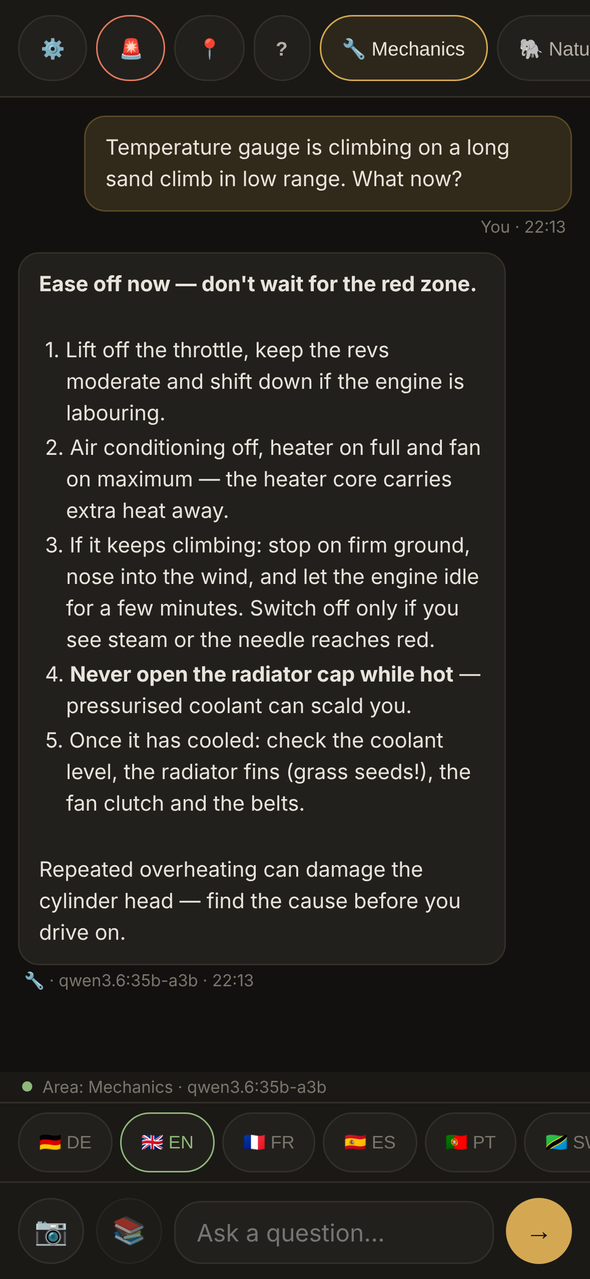
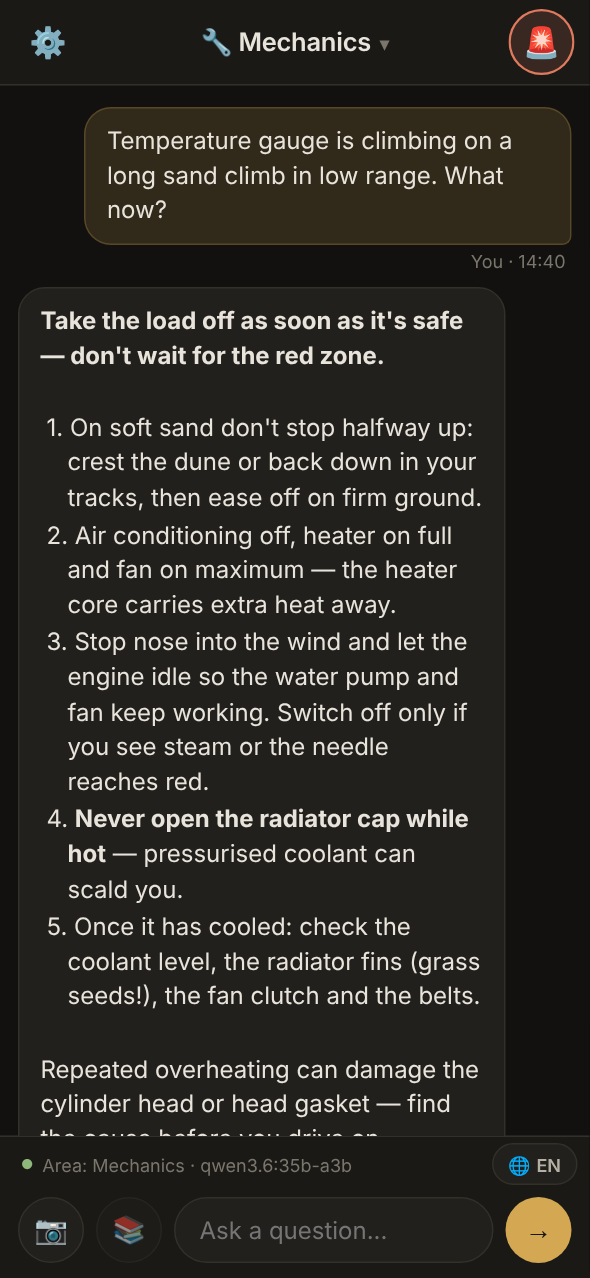
Website: updated text and screenshots, keep the 30-second video, corrected trailer answer

diff --git a/docs/index.html b/docs/index.html
@@ -244,21 +244,18 @@ footer p{margin:0 0 .6em;max-width:72ch}
         <div class="row">
           <figure>
             <div class="frame"><picture>
-              <source media="(prefers-color-scheme: light)" srcset="img/en/chat-light.png">
               <img src="img/en/chat-dark.png" width="250" alt="Screenshot of a chat with one of Safari Assistant’s modules" loading="lazy" decoding="async">
             </picture></div>
             <figcaption>Chat</figcaption>
           </figure>
           <figure>
             <div class="frame"><picture>
-              <source media="(prefers-color-scheme: light)" srcset="img/en/map-light.png">
               <img src="img/en/map-dark.png" width="250" alt="Screenshot of Safari Assistant’s offline map" loading="lazy" decoding="async">
             </picture></div>
             <figcaption>Map</figcaption>
           </figure>
           <figure>
             <div class="frame"><picture>
-              <source media="(prefers-color-scheme: light)" srcset="img/en/emergency-light.png">
               <img src="img/en/emergency-dark.png" width="250" alt="Screenshot of Safari Assistant’s emergency view" loading="lazy" decoding="async">
             </picture></div>
             <figcaption>Emergency</figcaption>
@@ -272,7 +269,8 @@ footer p{margin:0 0 .6em;max-width:72ch}
   <section id="what" aria-labelledby="what-title">
     <div class="wrap">
       <h2 id="what-title">What it does</h2>
-      <p class="read intro">Safari Assistant runs on your Mac and opens in your browser. It covers 16 countries:
+      <p class="read intro">Safari Assistant runs on your Mac and opens in your browser; with the Xcode Command Line
+      Tools installed, its Dock icon brings the app to the front. It covers 16 countries:
       Angola, Botswana, Burundi, Eswatini, Ethiopia, Kenya, Lesotho, Malawi, Mozambique, Namibia,
       Rwanda, South Africa, Tanzania, Uganda, Zambia and Zimbabwe.</p>
 
@@ -298,11 +296,15 @@ footer p{margin:0 0 .6em;max-width:72ch}
           </ul>
           <p class="group">Online, optional</p>
           <ul class="dash">
-            <li><strong>Security Situation — Live</strong>: current security situation, with web search</li>
+            <li><strong>Security Situation — Live</strong>: current security situation for the country of your GPS
+            position, with web search; it prefers embassy notices and local media of the last 30 days, avoids
+            click-bait sites and lists the sources it cited</li>
             <li><strong>Claude — Online AI</strong>: general online assistant, with web search</li>
           </ul>
           <p>One setting, Settings → <strong>Global Model</strong>, switches every local module to another
           model; <a href="#mac">which model fits your Mac</a>.</p>
+          <p><strong>Travel profile:</strong> describe once who travels, the vehicle, the route and your travel style,
+          in your own words. The local modules take it into account; Claude only if you allow it.</p>
           <p class="small">* On the Mac, Weather &amp; Rainy Seasons goes online via Claude when an API key is stored.</p>
         </div>
       </div>
@@ -317,7 +319,7 @@ footer p{margin:0 0 .6em;max-width:72ch}
             <li><strong>Photos:</strong> attach a photo of a sign, a part, a plant or an animal and ask about it.
             With the local modules, the model looks at it on your Mac; nothing is uploaded.</li>
             <li><strong>Offline Wikipedia</strong>, optional, via <code>kiwix-serve</code>: modules search it and
-            cite it, also from the iPhone.</li>
+            list the articles they used under the answer, also on the iPhone.</li>
           </ul>
         </div>
       </div>
@@ -332,7 +334,8 @@ footer p{margin:0 0 .6em;max-width:72ch}
             <li>Weather panel for your position; when online and on request, a 7-day forecast from Open-Meteo.</li>
             <li><strong>Warnings:</strong> official travel warnings from Germany, the UK and the US, fetched automatically
             whenever the Mac is online and readable offline. Warned districts are drawn as areas, and Safari Assistant
-            tells you whether your position is inside one; the full texts are under <strong>Travel Advisories</strong>.</li>
+            tells you whether your position is inside one; the full texts are under <strong>Travel Advisories</strong>.
+            The areas are checked against the warning texts every 10 minutes, and the iPhone keeps a copy.</li>
             <li><strong>Hazards:</strong> hazard zones (malaria, tsetse, big game, crocodiles), plus national
             park boundaries.</li>
             <li><strong>About 90,000 places</strong> from OpenStreetMap ship with the app, one file per country, imported
@@ -365,8 +368,10 @@ footer p{margin:0 0 .6em;max-width:72ch}
         <div>
           <p>On an iPhone in the same Wi-Fi you get the same modules, an emergency sheet, the news and the map, all
           through the Mac over HTTPS with an access code. <strong>🆘 Send position</strong> puts a fresh GPS fix under
-          your own prepared message and opens iMessage/SMS or WhatsApp; you tap Send. Once connected over HTTPS,
-          the iPhone keeps its emergency content (protocols, numbers, your position) even when the Mac is asleep or closed.
+          your own prepared message and opens iMessage/SMS or WhatsApp; you tap Send. With several channels,
+          <strong>📣 Send to all</strong> steps through them one by one. Once connected over HTTPS,
+          the iPhone keeps its emergency content (protocols, numbers, your position) even when the Mac is asleep or closed;
+          if the Mac does not answer, the page is there within about two seconds.
           The emergency sheet also shows <strong>local help</strong> you saved for a place, police, fire and ranger
           stations with a number from OpenStreetMap, and park and wildlife-authority numbers with their source.
           The iPhone mode is off after every start and

diff --git a/README.fr.md b/README.fr.md
@@ -17,9 +17,9 @@ Pour les Mac avec puce Apple Silicon. En anglais, allemand, français et espagno
 > - **État :** utilisé par l'auteur lors d'un voyage overland depuis novembre 2026. Testé sur un Mac (Apple Silicon, 36 Go) et un iPhone.
 
 <p align="center">
-<picture><source media="(prefers-color-scheme: dark)" srcset="docs/img/en/chat-dark.png"><img src="docs/img/en/chat-light.png" width="250" alt="Un chat avec l'un des modules de Safari Assistant"></picture>
-<picture><source media="(prefers-color-scheme: dark)" srcset="docs/img/en/map-dark.png"><img src="docs/img/en/map-light.png" width="250" alt="La carte hors ligne de Safari Assistant"></picture>
-<picture><source media="(prefers-color-scheme: dark)" srcset="docs/img/en/emergency-dark.png"><img src="docs/img/en/emergency-light.png" width="250" alt="La vue d'urgence de Safari Assistant"></picture>
+<img src="docs/img/en/chat-dark.png" width="250" alt="Un chat avec l'un des modules de Safari Assistant">
+<img src="docs/img/en/map-dark.png" width="250" alt="La carte hors ligne de Safari Assistant">
+<img src="docs/img/en/emergency-dark.png" width="250" alt="La vue d'urgence de Safari Assistant">
 </p>
 <p align="center"><sub>Vue d'exemple avec des données de démonstration ·
 <a href="https://darkpiratego.github.io/safari-assistant/">Site web</a></sub></p>

diff --git a/README.es.md b/README.es.md
@@ -17,9 +17,9 @@ Para Macs con Apple Silicon. En inglés, alemán, francés y español. Gratis pa
 > - **Estado:** el autor lo usa en un viaje overland desde noviembre de 2026. Probado en un Mac (Apple Silicon, 36 GB) y un iPhone.
 
 <p align="center">
-<picture><source media="(prefers-color-scheme: dark)" srcset="docs/img/en/chat-dark.png"><img src="docs/img/en/chat-light.png" width="250" alt="Un chat con uno de los módulos de Safari Assistant"></picture>
-<picture><source media="(prefers-color-scheme: dark)" srcset="docs/img/en/map-dark.png"><img src="docs/img/en/map-light.png" width="250" alt="El mapa sin conexión de Safari Assistant"></picture>
-<picture><source media="(prefers-color-scheme: dark)" srcset="docs/img/en/emergency-dark.png"><img src="docs/img/en/emergency-light.png" width="250" alt="La vista de emergencia de Safari Assistant"></picture>
+<img src="docs/img/en/chat-dark.png" width="250" alt="Un chat con uno de los módulos de Safari Assistant">
+<img src="docs/img/en/map-dark.png" width="250" alt="El mapa sin conexión de Safari Assistant">
+<img src="docs/img/en/emergency-dark.png" width="250" alt="La vista de emergencia de Safari Assistant">
 </p>
 <p align="center"><sub>Vista de ejemplo con datos de muestra ·
 <a href="https://darkpiratego.github.io/safari-assistant/">Sitio web</a></sub></p>

diff --git a/README.de.md b/README.de.md
@@ -17,9 +17,9 @@ Für Macs mit Apple Silicon. Auf Englisch, Deutsch, Französisch und Spanisch. K
 > - **Stand:** seit November 2026 vom Autor auf einer Overland-Reise im Einsatz. Getestet auf einem Mac (Apple Silicon, 36 GB) und einem iPhone.
 
 <p align="center">
-<picture><source media="(prefers-color-scheme: dark)" srcset="docs/img/en/chat-dark.png"><img src="docs/img/en/chat-light.png" width="250" alt="Ein Chat mit einem der Module von Safari Assistant"></picture>
-<picture><source media="(prefers-color-scheme: dark)" srcset="docs/img/en/map-dark.png"><img src="docs/img/en/map-light.png" width="250" alt="Die Offline-Karte von Safari Assistant"></picture>
-<picture><source media="(prefers-color-scheme: dark)" srcset="docs/img/en/emergency-dark.png"><img src="docs/img/en/emergency-light.png" width="250" alt="Die Notfall-Ansicht von Safari Assistant"></picture>
+<img src="docs/img/en/chat-dark.png" width="250" alt="Ein Chat mit einem der Module von Safari Assistant">
+<img src="docs/img/en/map-dark.png" width="250" alt="Die Offline-Karte von Safari Assistant">
+<img src="docs/img/en/emergency-dark.png" width="250" alt="Die Notfall-Ansicht von Safari Assistant">
 </p>
 <p align="center"><sub>Beispielansicht mit Beispieldaten ·
 <a href="https://darkpiratego.github.io/safari-assistant/">Website</a></sub></p>

diff --git a/README.md b/README.md
@@ -17,9 +17,9 @@ For Macs with Apple Silicon. In English, German, French and Spanish. Free for no
 > - **Status:** in use by the author on an overland trip since November 2026. Tested on one Mac (Apple Silicon, 36 GB) and one iPhone.
 
 <p align="center">
-<picture><source media="(prefers-color-scheme: dark)" srcset="docs/img/en/chat-dark.png"><img src="docs/img/en/chat-light.png" width="250" alt="A chat with one of Safari Assistant's modules"></picture>
-<picture><source media="(prefers-color-scheme: dark)" srcset="docs/img/en/map-dark.png"><img src="docs/img/en/map-light.png" width="250" alt="Safari Assistant's offline map"></picture>
-<picture><source media="(prefers-color-scheme: dark)" srcset="docs/img/en/emergency-dark.png"><img src="docs/img/en/emergency-light.png" width="250" alt="Safari Assistant's emergency view"></picture>
+<img src="docs/img/en/chat-dark.png" width="250" alt="A chat with one of Safari Assistant's modules">
+<img src="docs/img/en/map-dark.png" width="250" alt="Safari Assistant's offline map">
+<img src="docs/img/en/emergency-dark.png" width="250" alt="Safari Assistant's emergency view">
 </p>
 <p align="center"><sub>Example view with sample data ·
 <a href="https://darkpiratego.github.io/safari-assistant/">Website</a></sub></p>
